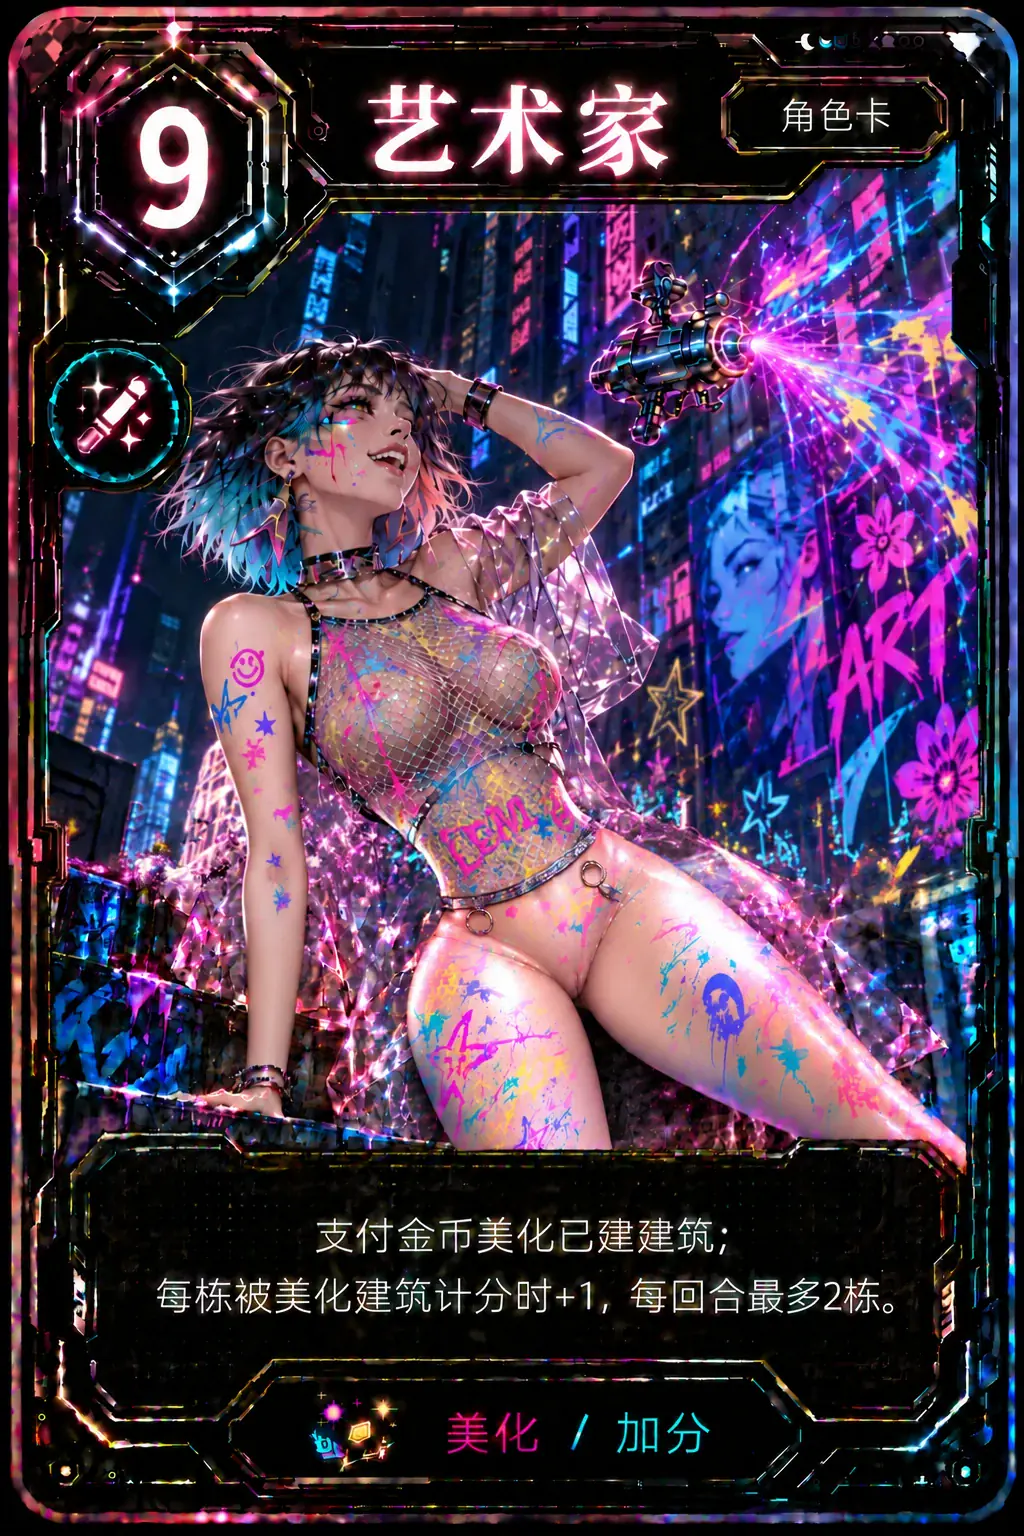
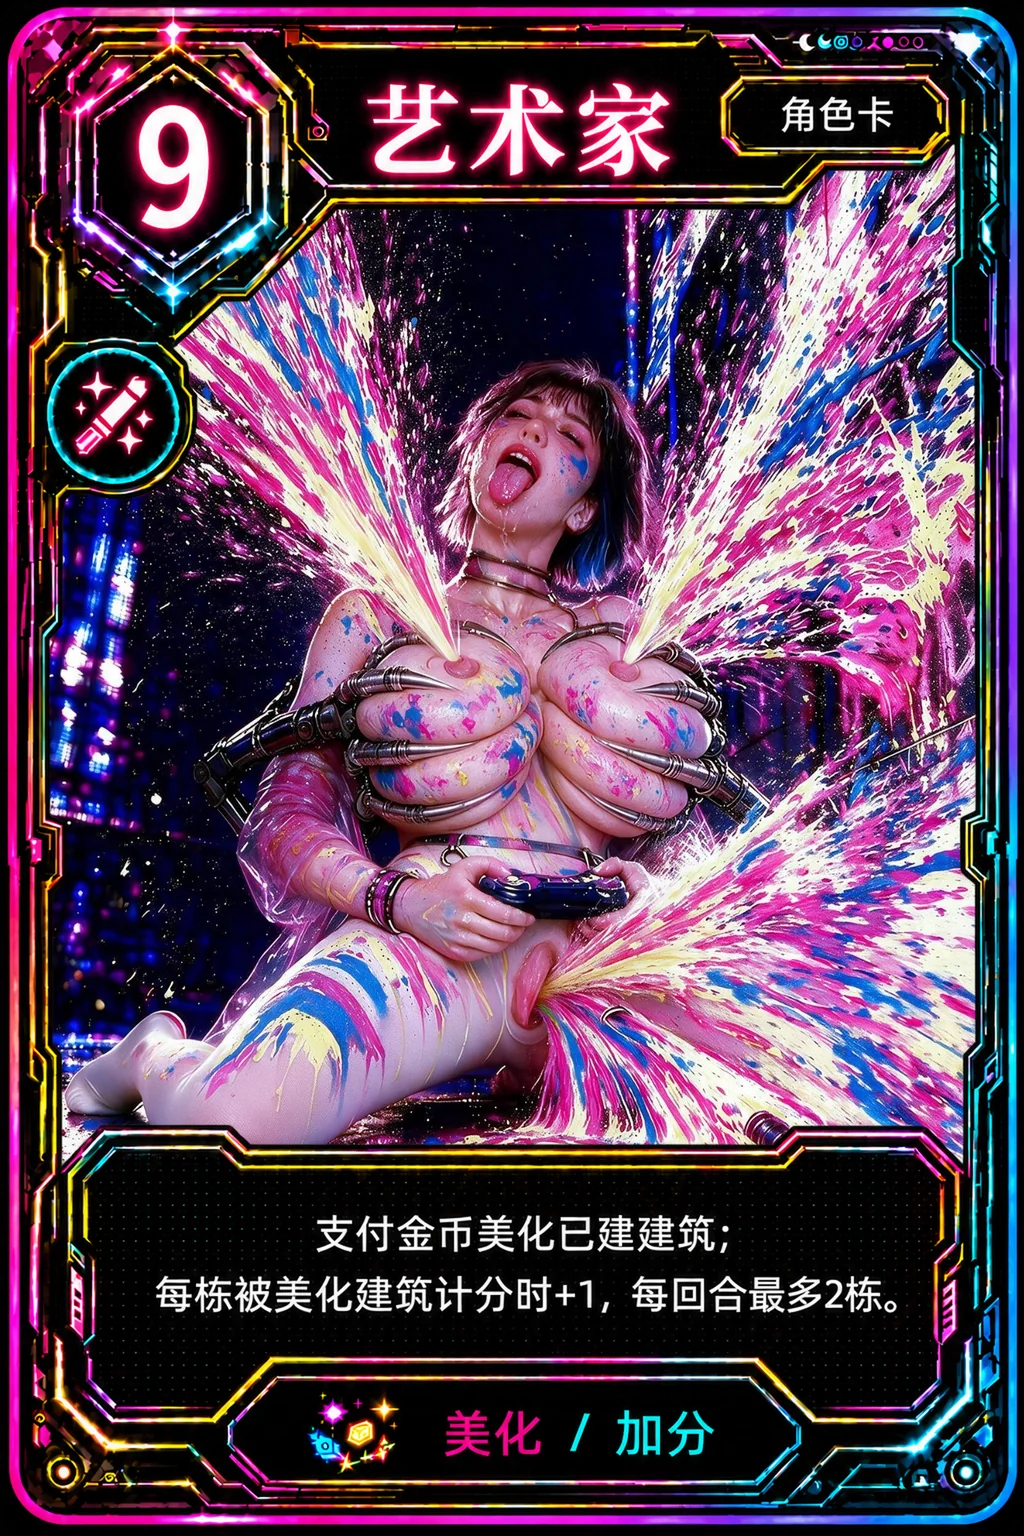
feat(theme): 更新艺术家角色卡立绘

diff --git a/public/themes/neon/manifest.js b/public/themes/neon/manifest.js
@@ -24,14 +24,17 @@
   function variants(folder, key) {
     const currentRules = (folder === 'roles' && key === 'magistrate') ||
       (folder === 'districts' && key === 'keep');
-    const refreshedArtwork = folder === 'roles' && key === 'assassin';
+    const refreshedArtwork = folder === 'roles' && (key === 'assassin' || key === 'artist');
+    const refreshedVersion = folder === 'roles' && key === 'artist'
+      ? '?v=artist-20261106'
+      : refreshedArtwork ? '?v=assassin-20261029' : '?v=optimized-1';
     const updatedRules = folder === 'districts' &&
       ['ghost_town', 'laboratory', 'observatory', 'library', 'great_wall', 'quarry'].includes(key);
     // 墓地卡图曾把建造费用 5 错印成能力支付费用 1，多张角色卡已更新；
     // 魔术师恢复为原卡图；
     // 单独版本化，让已安装 PWA 绕过旧图片的 HTTP / Service Worker 缓存。
     const versioned = (folder === 'districts' && key === 'graveyard') ||
-      (folder === 'roles' && (key === 'assassin' || key === 'blackmailer' || key === 'magician' || key === 'wizard' || key === 'bishop' || key === 'spy' || key === 'businessman' || key === 'diplomat' || key === 'king' || key === 'alchemist' || key === 'architect' || key === 'thief'));
+      (folder === 'roles' && (key === 'assassin' || key === 'artist' || key === 'blackmailer' || key === 'magician' || key === 'wizard' || key === 'bishop' || key === 'spy' || key === 'businessman' || key === 'diplomat' || key === 'king' || key === 'alchemist' || key === 'architect' || key === 'thief'));
     const version = folder === 'roles' && key === 'magician'
       ? '?v=3'
       : (folder === 'roles' && key === 'bishop'
@@ -48,7 +51,7 @@
     return {
       thumb: base + folder + '/thumb/' + key + '.webp' + (currentRules ? '?v=rules-20261012' : updatedRules ? '?v=rules-20261010' : version),
       // Full-resolution artwork was recompressed; version the URL so browser/PWA caches refresh it.
-      full: base + folder + '/full/' + key + '.webp' + (currentRules ? '?v=rules-20261012' : updatedRules ? '?v=rules-20261010' : refreshedArtwork ? '?v=assassin-20261029' : '?v=optimized-1')
+      full: base + folder + '/full/' + key + '.webp' + (currentRules ? '?v=rules-20261012' : updatedRules ? '?v=rules-20261010' : refreshedVersion)
     };
   }
 
